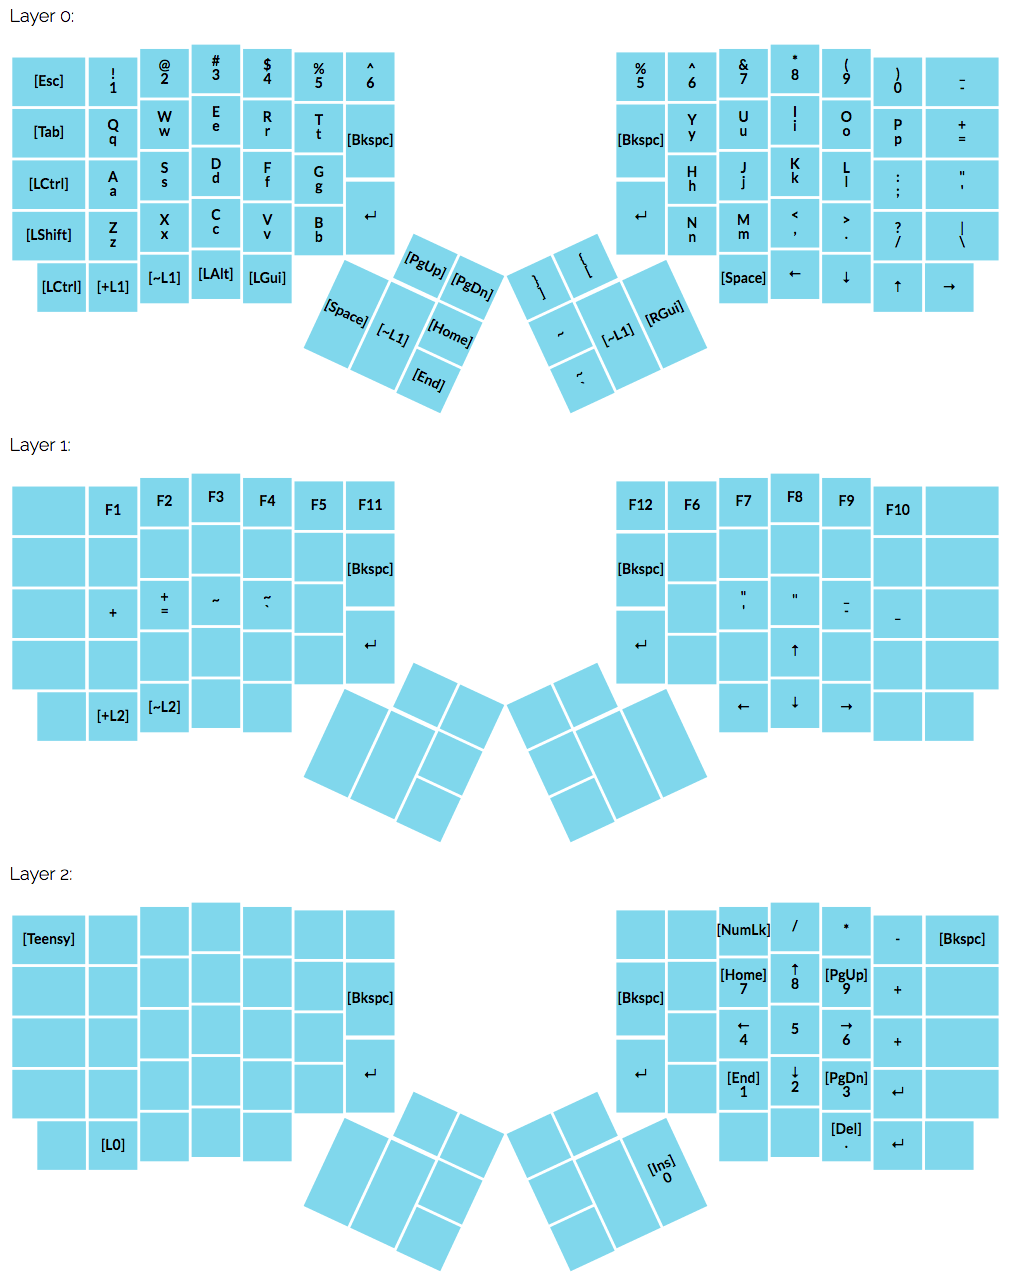
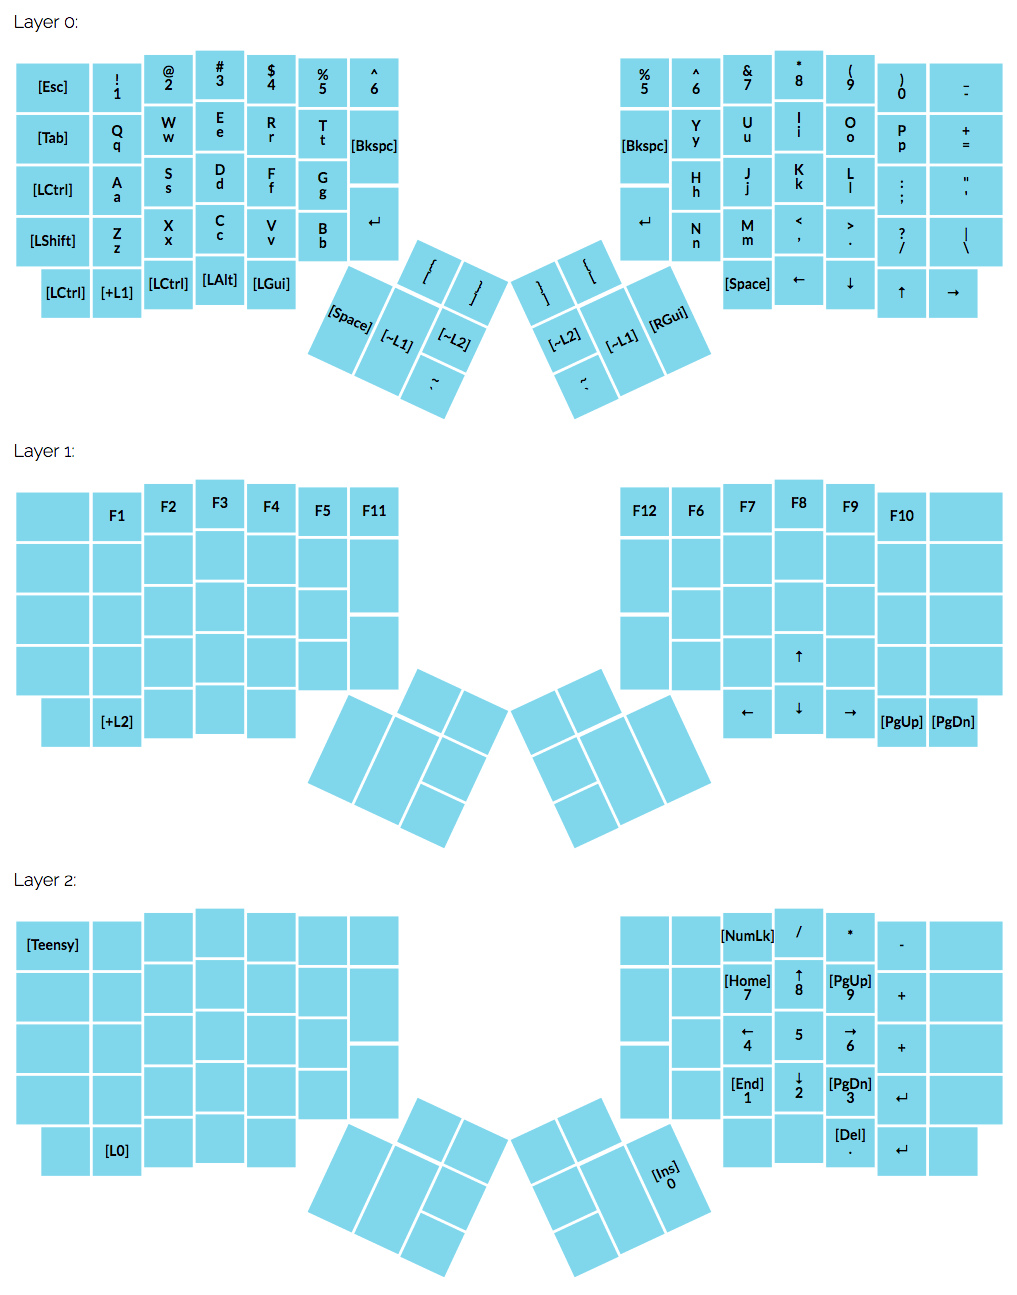
Updated with new layout

diff --git a/keyboard/ergodox/layout/default--layout.c b/keyboard/ergodox/layout/default--layout.c
@@ -70,10 +70,10 @@ KB_MATRIX_LAYER(
 	KEY_Tab,	KEY_q_Q,	KEY_w_W,	KEY_e_E,	KEY_r_R,	KEY_t_T,	KEY_DeleteBackspace,	
 	KEY_LeftControl,	KEY_a_A,	KEY_s_S,	KEY_d_D,	KEY_f_F,	KEY_g_G,	
 	KEY_LeftShift,	KEY_z_Z,	KEY_x_X,	KEY_c_C,	KEY_v_V,	KEY_b_B,	KEY_ReturnEnter,	
-	KEY_LeftControl,	1,	1,	KEY_LeftAlt,	KEY_LeftGUI,	
-	KEY_PageUp,	KEY_PageDown,	
-	0,	0,	KEY_Home,	
-	KEY_Spacebar,	1,	KEY_End,	
+	KEY_LeftControl,	1,	KEY_LeftControl,	KEY_LeftAlt,	KEY_LeftGUI,	
+	KEY_LeftBracket_LeftBrace,	KEY_RightBracket_RightBrace,	
+	0,	0,	2,	
+	KEY_Spacebar,	1,	KEY_GraveAccent_Tilde,	
 	// right hand
 	KEY_5_Percent,	KEY_6_Caret,	KEY_7_Ampersand,	KEY_8_Asterisk,	KEY_9_LeftParenthesis,	KEY_0_RightParenthesis,	KEY_Dash_Underscore,	
 	KEY_DeleteBackspace,	KEY_y_Y,	KEY_u_U,	KEY_i_I,	KEY_o_O,	KEY_p_P,	KEY_Equal_Plus,	
@@ -81,7 +81,7 @@ KB_MATRIX_LAYER(
 	KEY_ReturnEnter,	KEY_n_N,	KEY_m_M,	KEY_Comma_LessThan,	KEY_Period_GreaterThan,	KEY_Slash_Question,	KEY_Backslash_Pipe,	
 	KEY_Spacebar,	KEY_LeftArrow,	KEY_DownArrow,	KEY_UpArrow,	KEY_RightArrow,	
 	KEY_RightBracket_RightBrace,	KEY_LeftBracket_LeftBrace,	
-	0x35,	0,	0,	
+	2,	0,	0,	
 	KEY_GraveAccent_Tilde,	1,	KEY_RightGUI	
 ),
 // LAYER 1
@@ -90,19 +90,19 @@ KB_MATRIX_LAYER(
 	0,	
 	// left hand
 	0,	KEY_F1,	KEY_F2,	KEY_F3,	KEY_F4,	KEY_F5,	KEY_F11,	
-	0,	0,	0,	0,	0,	0,	KEY_DeleteBackspace,	
+	0,	0,	0,	0,	0,	0,	0,	
 	0,	0,	0,	0,	0,	0,	
-	0,	0,	0,	0,	0,	0,	KEY_ReturnEnter,	
-	0,	2,	2,	0,	0,	
+	0,	0,	0,	0,	0,	0,	0,	
+	0,	2,	0,	0,	0,	
 	0,	0,	
 	0,	0,	0,	
 	0,	0,	0,	
 	// right hand
 	KEY_F12,	KEY_F6,	KEY_F7,	KEY_F8,	KEY_F9,	KEY_F10,	0,	
-	KEY_DeleteBackspace,	0,	0,	0,	0,	0,	0,	
+	0,	0,	0,	0,	0,	0,	0,	
 	0,	0,	0,	0,	0,	0,	
-	KEY_ReturnEnter,	0,	0,	KEY_UpArrow,	0,	0,	0,	
-	KEY_LeftArrow,	KEY_DownArrow,	KEY_RightArrow,	0,	0,	
+	0,	0,	0,	KEY_UpArrow,	0,	0,	0,	
+	KEY_LeftArrow,	KEY_DownArrow,	KEY_RightArrow,	KEY_PageUp,	KEY_PageDown,	
 	0,	0,	
 	0,	0,	0,	
 	0,	0,	0	
@@ -113,18 +113,18 @@ KB_MATRIX_LAYER(
 	0,	
 	// left hand
 	0,	0,	0,	0,	0,	0,	0,	
-	0,	0,	0,	0,	0,	0,	KEY_DeleteBackspace,	
+	0,	0,	0,	0,	0,	0,	0,	
 	0,	0,	0,	0,	0,	0,	
-	0,	0,	0,	0,	0,	0,	KEY_ReturnEnter,	
+	0,	0,	0,	0,	0,	0,	0,	
 	0,	0,	0,	0,	0,	
 	0,	0,	
 	0,	0,	0,	
 	0,	0,	0,	
 	// right hand
 	0,	0,	KEYPAD_NumLock_Clear,	KEYPAD_Slash,	KEYPAD_Asterisk,	KEYPAD_Minus,	0,	
-	KEY_DeleteBackspace,	0,	KEYPAD_7_Home,	KEYPAD_8_UpArrow,	KEYPAD_9_PageUp,	KEYPAD_Plus,	0,	
+	0,	0,	KEYPAD_7_Home,	KEYPAD_8_UpArrow,	KEYPAD_9_PageUp,	KEYPAD_Plus,	0,	
 	0,	KEYPAD_4_LeftArrow,	KEYPAD_5,	KEYPAD_6_RightArrow,	KEYPAD_Plus,	0,	
-	KEY_ReturnEnter,	0,	KEYPAD_1_End,	KEYPAD_2_DownArrow,	KEYPAD_3_PageDown,	KEY_ReturnEnter,	0,	
+	0,	0,	KEYPAD_1_End,	KEYPAD_2_DownArrow,	KEYPAD_3_PageDown,	KEY_ReturnEnter,	0,	
 	0,	0,	KEYPAD_Period_Delete,	KEY_ReturnEnter,	0,	
 	0,	0,	
 	0,	0,	0,	
@@ -305,9 +305,9 @@ KB_MATRIX_LAYER(
 	kprrel,	kprrel,	kprrel,	kprrel,	kprrel,	kprrel,	kprrel,	
 	kprrel,	kprrel,	kprrel,	kprrel,	kprrel,	kprrel,	
 	kprrel,	kprrel,	kprrel,	kprrel,	kprrel,	kprrel,	kprrel,	
-	kprrel,	lpush1,	lpush1,	kprrel,	kprrel,	
+	kprrel,	lpush1,	kprrel,	kprrel,	kprrel,	
 	kprrel,	kprrel,	
-	NULL,	NULL,	kprrel,	
+	NULL,	NULL,	lpush2,	
 	kprrel,	lpush1,	kprrel,	
 	// right hand
 	kprrel,	kprrel,	kprrel,	kprrel,	kprrel,	kprrel,	kprrel,	
@@ -316,7 +316,7 @@ KB_MATRIX_LAYER(
 	kprrel,	kprrel,	kprrel,	kprrel,	kprrel,	kprrel,	kprrel,	
 	kprrel,	kprrel,	kprrel,	kprrel,	kprrel,	
 	kprrel,	kprrel,	
-	sshprre,	NULL,	NULL,	
+	lpush2,	NULL,	NULL,	
 	kprrel,	lpush1,	kprrel	
 ),
 // LAYER 1
@@ -325,19 +325,19 @@ KB_MATRIX_LAYER(
 	NULL,	
 	// left hand
 	NULL,	kprrel,	kprrel,	kprrel,	kprrel,	kprrel,	kprrel,	
-	NULL,	NULL,	NULL,	NULL,	NULL,	NULL,	kprrel,	
+	NULL,	NULL,	NULL,	NULL,	NULL,	NULL,	NULL,	
 	NULL,	NULL,	NULL,	NULL,	NULL,	NULL,	
-	NULL,	NULL,	NULL,	NULL,	NULL,	NULL,	kprrel,	
-	NULL,	lpush2,	lpush2,	NULL,	NULL,	
+	NULL,	NULL,	NULL,	NULL,	NULL,	NULL,	NULL,	
+	NULL,	lpush2,	NULL,	NULL,	NULL,	
 	NULL,	NULL,	
 	NULL,	NULL,	NULL,	
 	NULL,	NULL,	NULL,	
 	// right hand
 	kprrel,	kprrel,	kprrel,	kprrel,	kprrel,	kprrel,	NULL,	
-	kprrel,	NULL,	NULL,	NULL,	NULL,	NULL,	NULL,	
+	NULL,	NULL,	NULL,	NULL,	NULL,	NULL,	NULL,	
 	NULL,	NULL,	NULL,	NULL,	NULL,	NULL,	
-	kprrel,	NULL,	NULL,	kprrel,	NULL,	NULL,	NULL,	
-	kprrel,	kprrel,	kprrel,	NULL,	NULL,	
+	NULL,	NULL,	NULL,	kprrel,	NULL,	NULL,	NULL,	
+	kprrel,	kprrel,	kprrel,	kprrel,	kprrel,	
 	NULL,	NULL,	
 	NULL,	NULL,	NULL,	
 	NULL,	NULL,	NULL	
@@ -348,18 +348,18 @@ KB_MATRIX_LAYER(
 	NULL,	
 	// left hand
 	dbtldr,	NULL,	NULL,	NULL,	NULL,	NULL,	NULL,	
-	NULL,	NULL,	NULL,	NULL,	NULL,	NULL,	kprrel,	
+	NULL,	NULL,	NULL,	NULL,	NULL,	NULL,	NULL,	
 	NULL,	NULL,	NULL,	NULL,	NULL,	NULL,	
-	NULL,	NULL,	NULL,	NULL,	NULL,	NULL,	kprrel,	
+	NULL,	NULL,	NULL,	NULL,	NULL,	NULL,	NULL,	
 	NULL,	lpop,	NULL,	NULL,	NULL,	
 	NULL,	NULL,	
 	NULL,	NULL,	NULL,	
 	NULL,	NULL,	NULL,	
 	// right hand
 	NULL,	NULL,	kprrel,	kprrel,	kprrel,	kprrel,	NULL,	
-	kprrel,	NULL,	kprrel,	kprrel,	kprrel,	kprrel,	NULL,	
+	NULL,	NULL,	kprrel,	kprrel,	kprrel,	kprrel,	NULL,	
 	NULL,	kprrel,	kprrel,	kprrel,	kprrel,	NULL,	
-	kprrel,	NULL,	kprrel,	kprrel,	kprrel,	kprrel,	NULL,	
+	NULL,	NULL,	kprrel,	kprrel,	kprrel,	kprrel,	NULL,	
 	NULL,	NULL,	kprrel,	kprrel,	NULL,	
 	NULL,	NULL,	
 	NULL,	NULL,	NULL,	
@@ -540,9 +540,9 @@ KB_MATRIX_LAYER(
 	kprrel,	kprrel,	kprrel,	kprrel,	kprrel,	kprrel,	kprrel,	
 	kprrel,	kprrel,	kprrel,	kprrel,	kprrel,	kprrel,	
 	kprrel,	kprrel,	kprrel,	kprrel,	kprrel,	kprrel,	kprrel,	
-	kprrel,	NULL,	lpop1,	kprrel,	kprrel,	
+	kprrel,	NULL,	kprrel,	kprrel,	kprrel,	
 	kprrel,	kprrel,	
-	NULL,	NULL,	kprrel,	
+	NULL,	NULL,	lpop2,	
 	kprrel,	lpop1,	kprrel,	
 	// right hand
 	kprrel,	kprrel,	kprrel,	kprrel,	kprrel,	kprrel,	kprrel,	
@@ -551,7 +551,7 @@ KB_MATRIX_LAYER(
 	kprrel,	kprrel,	kprrel,	kprrel,	kprrel,	kprrel,	kprrel,	
 	kprrel,	kprrel,	kprrel,	kprrel,	kprrel,	
 	kprrel,	kprrel,	
-	sshprre,	NULL,	NULL,	
+	lpop2,	NULL,	NULL,	
 	kprrel,	lpop1,	kprrel	
 ),
 // LAYER 1
@@ -560,19 +560,19 @@ KB_MATRIX_LAYER(
 	NULL,	
 	// left hand
 	NULL,	kprrel,	kprrel,	kprrel,	kprrel,	kprrel,	kprrel,	
-	NULL,	NULL,	NULL,	NULL,	NULL,	NULL,	kprrel,	
+	NULL,	NULL,	NULL,	NULL,	NULL,	NULL,	NULL,	
 	NULL,	NULL,	NULL,	NULL,	NULL,	NULL,	
-	NULL,	NULL,	NULL,	NULL,	NULL,	NULL,	kprrel,	
-	NULL,	NULL,	lpop2,	NULL,	NULL,	
+	NULL,	NULL,	NULL,	NULL,	NULL,	NULL,	NULL,	
+	NULL,	NULL,	NULL,	NULL,	NULL,	
 	NULL,	NULL,	
 	NULL,	NULL,	NULL,	
 	NULL,	NULL,	NULL,	
 	// right hand
 	kprrel,	kprrel,	kprrel,	kprrel,	kprrel,	kprrel,	NULL,	
-	kprrel,	NULL,	NULL,	NULL,	NULL,	NULL,	NULL,	
+	NULL,	NULL,	NULL,	NULL,	NULL,	NULL,	NULL,	
 	NULL,	NULL,	NULL,	NULL,	NULL,	NULL,	
-	kprrel,	NULL,	NULL,	kprrel,	NULL,	NULL,	NULL,	
-	kprrel,	kprrel,	kprrel,	NULL,	NULL,	
+	NULL,	NULL,	NULL,	kprrel,	NULL,	NULL,	NULL,	
+	kprrel,	kprrel,	kprrel,	kprrel,	kprrel,	
 	NULL,	NULL,	
 	NULL,	NULL,	NULL,	
 	NULL,	NULL,	NULL	
@@ -583,18 +583,18 @@ KB_MATRIX_LAYER(
 	NULL,	
 	// left hand
 	NULL,	NULL,	NULL,	NULL,	NULL,	NULL,	NULL,	
-	NULL,	NULL,	NULL,	NULL,	NULL,	NULL,	kprrel,	
+	NULL,	NULL,	NULL,	NULL,	NULL,	NULL,	NULL,	
 	NULL,	NULL,	NULL,	NULL,	NULL,	NULL,	
-	NULL,	NULL,	NULL,	NULL,	NULL,	NULL,	kprrel,	
+	NULL,	NULL,	NULL,	NULL,	NULL,	NULL,	NULL,	
 	NULL,	NULL,	NULL,	NULL,	NULL,	
 	NULL,	NULL,	
 	NULL,	NULL,	NULL,	
 	NULL,	NULL,	NULL,	
 	// right hand
 	NULL,	NULL,	kprrel,	kprrel,	kprrel,	kprrel,	NULL,	
-	kprrel,	NULL,	kprrel,	kprrel,	kprrel,	kprrel,	NULL,	
+	NULL,	NULL,	kprrel,	kprrel,	kprrel,	kprrel,	NULL,	
 	NULL,	kprrel,	kprrel,	kprrel,	kprrel,	NULL,	
-	kprrel,	NULL,	kprrel,	kprrel,	kprrel,	kprrel,	NULL,	
+	NULL,	NULL,	kprrel,	kprrel,	kprrel,	kprrel,	NULL,	
 	NULL,	NULL,	kprrel,	kprrel,	NULL,	
 	NULL,	NULL,	
 	NULL,	NULL,	NULL,	

diff --git a/README.md b/README.md
@@ -12,8 +12,6 @@ Use [Teensy Loader](https://www.pjrc.com/teensy/loader.html) to load my keymap l
 
 ![](keymap.png)
 
-[Here’s a GIF](keymap.gif) of all previous keymaps I’ve tested to get to the current layout above.
-
 ## Tip
 
 In order to get used to the new layout, I highly recommend printing out your keymap and putting it right in front of your keyboard:
